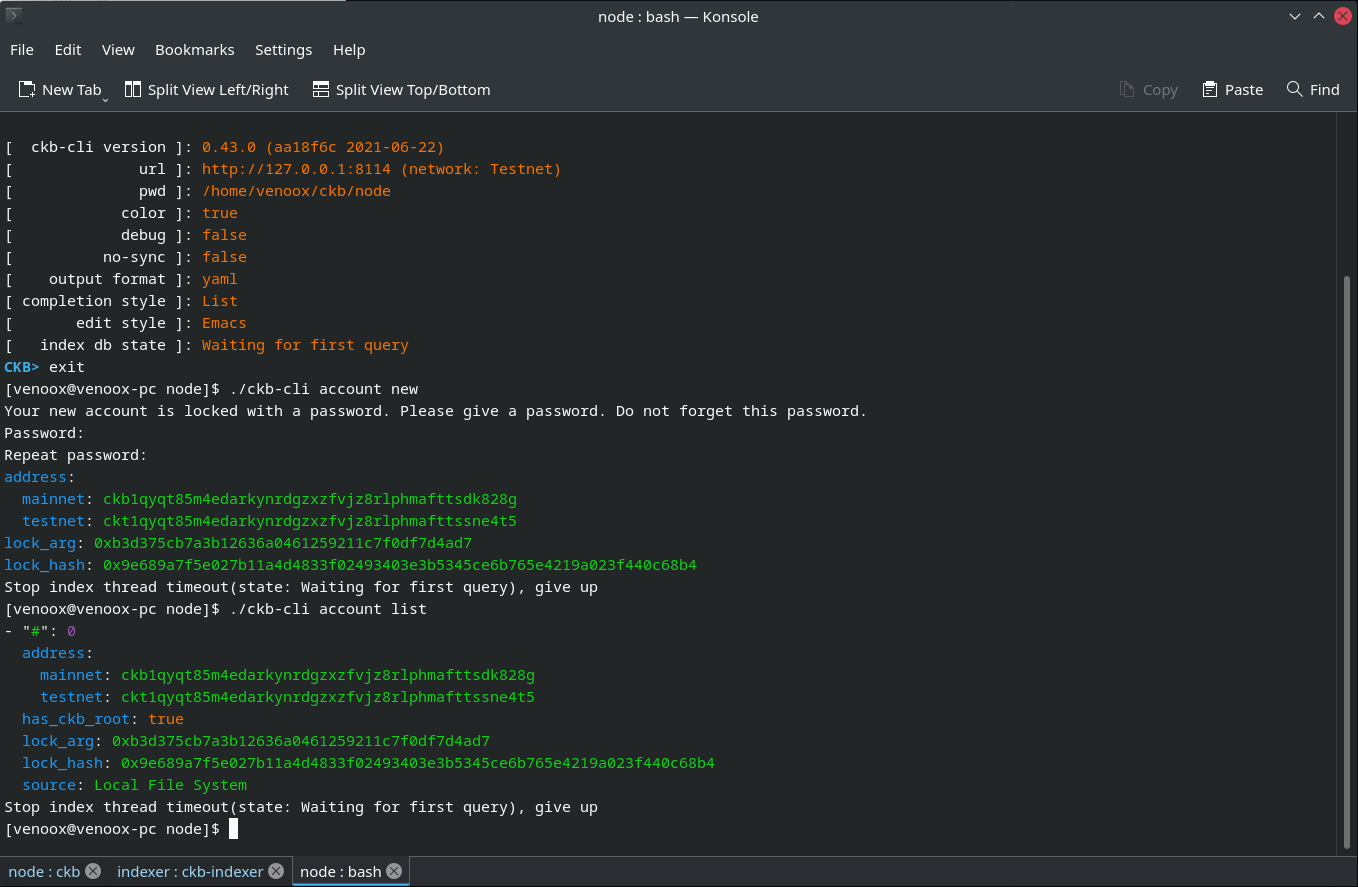
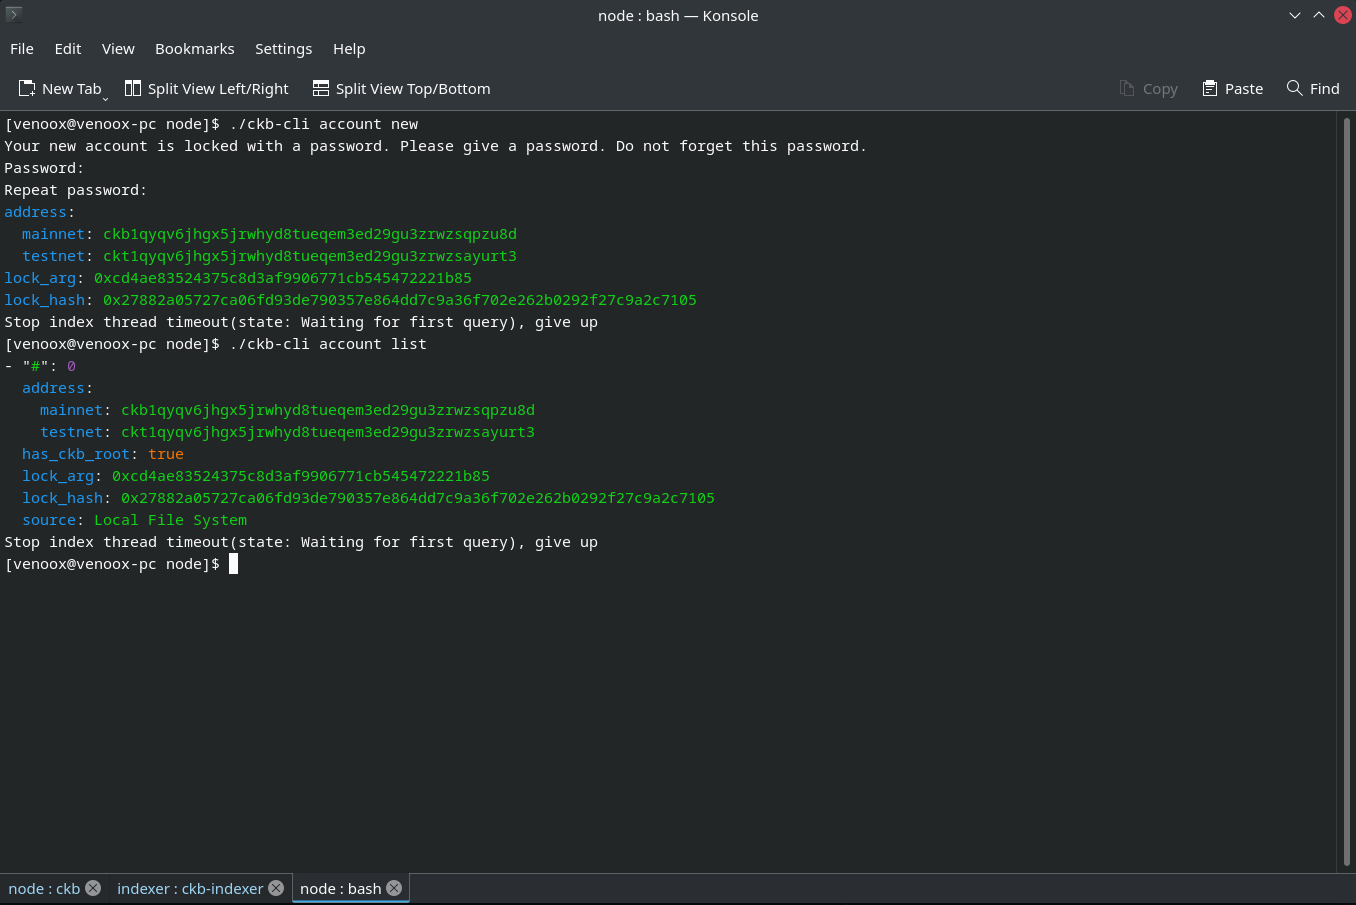
Task 1: redid the task because wrong eth address was used

diff --git a/task01/README.md b/task01/README.md
@@ -2,7 +2,7 @@
 
 This task involved creating a Layer 1 testnet address, getting the private key and using it to deposit to Layer 2.
 
-Layer 1 testnet address explorer: https://explorer.nervos.org/aggron/address/ckt1qyqt85m4edarkynrdgzxzfvjz8rlphmafttssne4t5
+Layer 1 testnet address explorer: https://explorer.nervos.org/aggron/address/ckt1qyqv6jhgx5jrwhyd8tueqem3ed29gu3zrwzsayurt3
 
 ### Account list from ckb-cli
 
